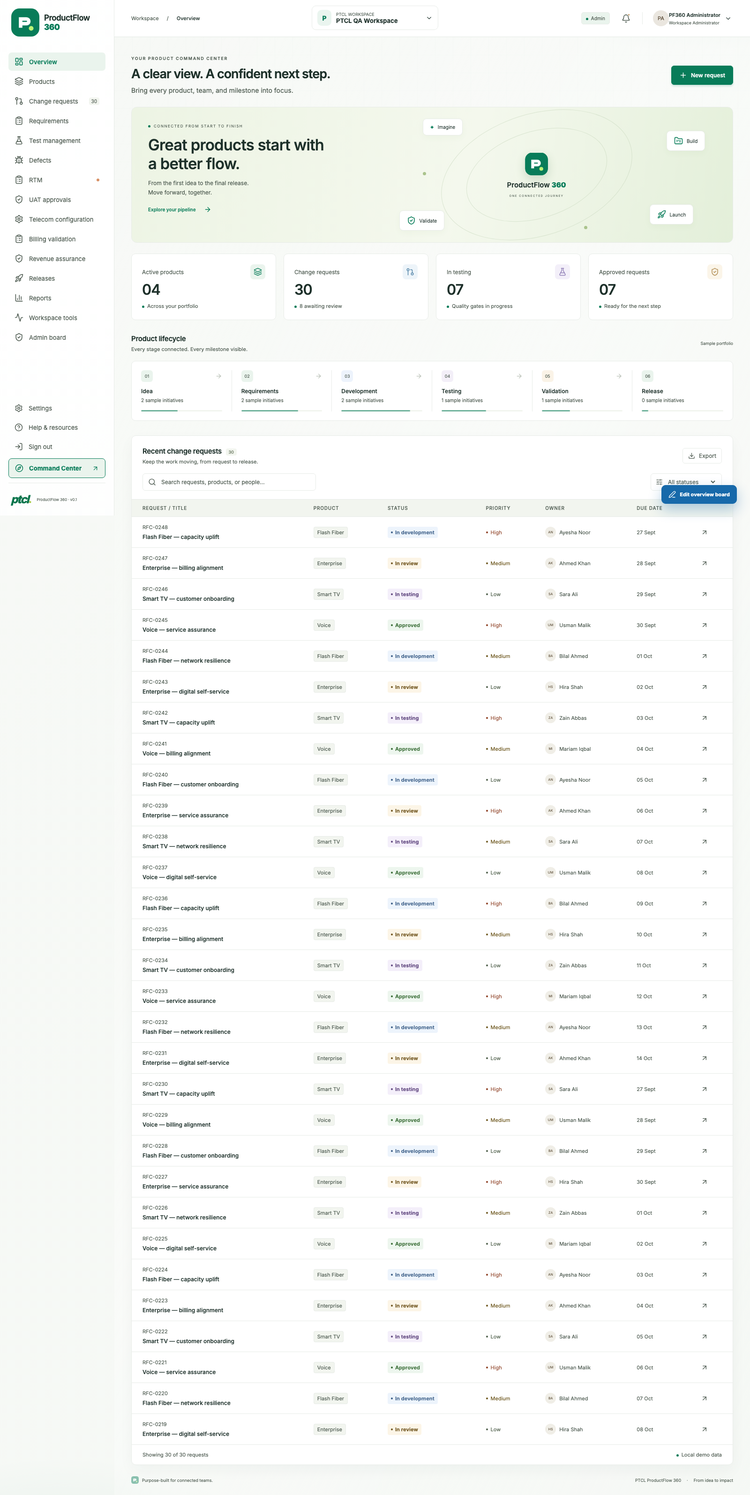
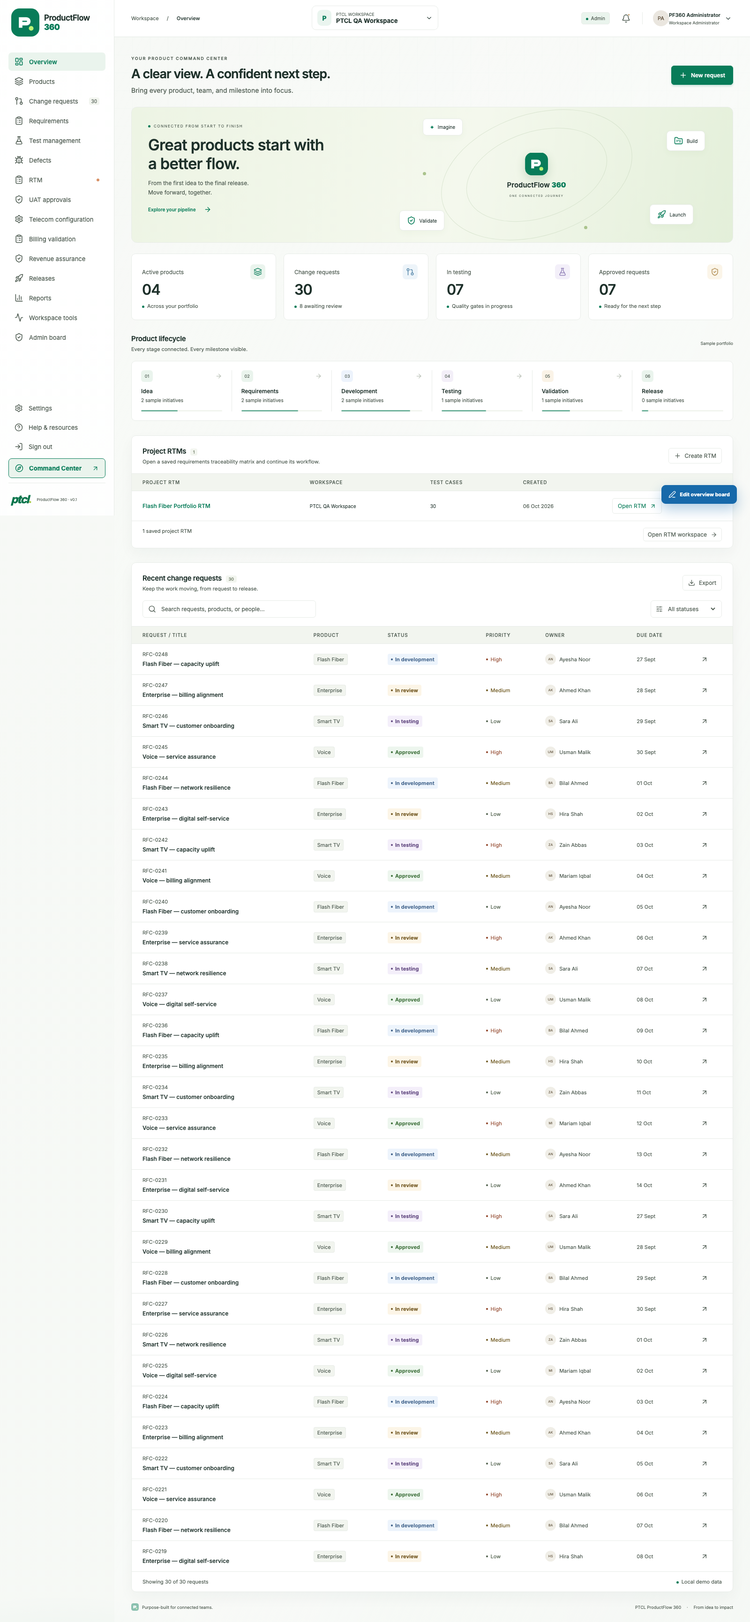
Show saved RTMs on the overview dashboard

diff --git a/apps/web/app/page.tsx b/apps/web/app/page.tsx
@@ -17,6 +17,7 @@ import { LIFECYCLE_KEY } from '../lib/lifecycle';
 import { TEST_STORAGE_KEY } from '../lib/test-cases';
 import { LayoutDashboard, Layers, GitPullRequest, ClipboardList, FlaskConical, Bug, ShieldCheck, Rocket, BarChart3, Settings, CircleHelp, Search, Bell, ChevronDown, ArrowUpRight, ArrowRight, Plus, X, SlidersHorizontal, Download, Check, Activity, Menu, FolderKanban, LogIn } from 'lucide-react';
 type Request={id:string;title:string;product:string;status:string;priority:string;owner:string;date:string};
+type RtmSummary={id:string;name:string;createdAt:string;workspaceName?:string;rows:unknown[]};
 const initial:Request[]=[
 {id:'RFC-0248',title:'Flash Fiber — 100 Mbps speed upgrade',product:'Flash Fiber',status:'In development',priority:'High',owner:'Ahmed Khan',date:'2026-09-22'},
 {id:'RFC-0247',title:'Unified billing for enterprise customers',product:'Enterprise',status:'In review',priority:'High',owner:'Sara Ali',date:'2026-09-20'},
@@ -36,10 +37,11 @@ return <div className="header-workspace"><button className="header-workspace-tri
 function Workspace({user,signOut,refreshAuth,updateProfile}:{user:AuthUser;signOut:()=>void;refreshAuth:()=>void;updateProfile:(changes:Pick<AuthUser,'fullName'|'designation'|'department'|'email'|'mobile'|'photo'>)=>void}){
 const {theme,selectTheme,themeError}=useTheme();
 const [testRequest,setTestRequest]=useState('');
+const [rtmToOpen,setRtmToOpen]=useState(''),[rtmDocuments,setRtmDocuments]=useState<RtmSummary[]>([]);
 const [ready,setReady]=useState(false),[records,setRecords]=useState<Request[]>(initial),[active,setActive]=useState('Overview'),[query,setQuery]=useState(''),[status,setStatus]=useState('All statuses'),[modal,setModal]=useState(false),[detail,setDetail]=useState<Request|null>(null),[editingRequest,setEditingRequest]=useState(false),[notice,setNotice]=useState(''),[mobile,setMobile]=useState(false),[storageError,setStorageError]=useState(false),[workspaces,setWorkspaces]=useState<HeaderWorkspace[]>([]),[activeWorkspace,setActiveWorkspace]=useState('');
 const allowedNav=user.role === 'Admin' ? [...nav,{name:'Admin board',icon:ShieldCheck}] : nav;
 const showNewRequest=active==='Overview'||active==='Change requests';
-useEffect(()=>{try{const saved=localStorage.getItem('pf360-requests');if(!saved&&!localStorage.getItem(DEMO_SEED_KEY)&&![LIFECYCLE_KEY,TEST_STORAGE_KEY,'pf360-rtm-documents','pf360-projects'].some(key=>localStorage.getItem(key))){const seed=createDemoSeed();localStorage.setItem('pf360-requests',JSON.stringify(seed.requests));localStorage.setItem(LIFECYCLE_KEY,JSON.stringify(seed.lifecycle));localStorage.setItem(TEST_STORAGE_KEY,JSON.stringify(seed.tests));localStorage.setItem('pf360-rtm-documents',JSON.stringify(seed.rtm));localStorage.setItem('pf360-projects',JSON.stringify(seed.projects));localStorage.setItem('pf360-workspaces',JSON.stringify([{id:'ptcl-qa',name:'PTCL QA Workspace',description:'Default local workspace',owner:'PTCL Product Office',createdAt:new Date().toISOString()}]));localStorage.setItem('pf360-active-workspace','ptcl-qa');localStorage.setItem(DEMO_SEED_KEY,'30-record-demo-v1');setRecords(seed.requests)}else if(saved){const parsed:unknown=JSON.parse(saved);if(Array.isArray(parsed)&&parsed.every(r=>r&&['id','title','product','status','priority','owner','date'].every(k=>typeof r[k]==='string')))setRecords(parsed)}const savedWorkspaces=localStorage.getItem('pf360-workspaces');const workspaceItems=savedWorkspaces?JSON.parse(savedWorkspaces):[{id:'ptcl-qa',name:'PTCL QA Workspace',description:'Default local workspace'}];if(Array.isArray(workspaceItems)){setWorkspaces(workspaceItems);const stored=localStorage.getItem('pf360-active-workspace');setActiveWorkspace(workspaceItems.some(item=>item.id===stored)?stored:workspaceItems[0]?.id??'')}}catch{setStorageError(true)}finally{setReady(true)}},[]);
+useEffect(()=>{try{const saved=localStorage.getItem('pf360-requests');if(!saved&&!localStorage.getItem(DEMO_SEED_KEY)&&![LIFECYCLE_KEY,TEST_STORAGE_KEY,'pf360-rtm-documents','pf360-projects'].some(key=>localStorage.getItem(key))){const seed=createDemoSeed();localStorage.setItem('pf360-requests',JSON.stringify(seed.requests));localStorage.setItem(LIFECYCLE_KEY,JSON.stringify(seed.lifecycle));localStorage.setItem(TEST_STORAGE_KEY,JSON.stringify(seed.tests));localStorage.setItem('pf360-rtm-documents',JSON.stringify(seed.rtm));localStorage.setItem('pf360-projects',JSON.stringify(seed.projects));localStorage.setItem('pf360-workspaces',JSON.stringify([{id:'ptcl-qa',name:'PTCL QA Workspace',description:'Default local workspace',owner:'PTCL Product Office',createdAt:new Date().toISOString()}]));localStorage.setItem('pf360-active-workspace','ptcl-qa');localStorage.setItem(DEMO_SEED_KEY,'30-record-demo-v1');setRecords(seed.requests)}else if(saved){const parsed:unknown=JSON.parse(saved);if(Array.isArray(parsed)&&parsed.every(r=>r&&['id','title','product','status','priority','owner','date'].every(k=>typeof r[k]==='string')))setRecords(parsed)}const savedRtms=JSON.parse(localStorage.getItem('pf360-rtm-documents')??'[]');if(Array.isArray(savedRtms))setRtmDocuments(savedRtms.filter(item=>item&&typeof item.id==='string'&&typeof item.name==='string'&&Array.isArray(item.rows)));const savedWorkspaces=localStorage.getItem('pf360-workspaces');const workspaceItems=savedWorkspaces?JSON.parse(savedWorkspaces):[{id:'ptcl-qa',name:'PTCL QA Workspace',description:'Default local workspace'}];if(Array.isArray(workspaceItems)){setWorkspaces(workspaceItems);const stored=localStorage.getItem('pf360-active-workspace');setActiveWorkspace(workspaceItems.some(item=>item.id===stored)?stored:workspaceItems[0]?.id??'')}}catch{setStorageError(true)}finally{setReady(true)}},[]);
 useEffect(()=>{if(notice){const t=setTimeout(()=>setNotice(''),4500);return()=>clearTimeout(t)}},[notice]);
 useEffect(()=>{const openWorkspaceTools=()=>setActive('Workspace tools');window.addEventListener('pf360-open-workspace-tools',openWorkspaceTools);return()=>window.removeEventListener('pf360-open-workspace-tools',openWorkspaceTools)},[]);
 useEffect(()=>{const openWorkspace=()=>{setActive('Overview');setMobile(false);setNotice('Selected workspace opened.');};window.addEventListener('pf360-workspace-opened',openWorkspace);return()=>window.removeEventListener('pf360-workspace-opened',openWorkspace)},[]);
@@ -47,6 +49,7 @@ useEffect(()=>{const openGuide=()=>{setActive('Help & resources');setMobile(fals
 useEffect(()=>{const navigate=(event:Event)=>{setActive((event as CustomEvent<string>).detail);setMobile(false)};window.addEventListener('pf360-command-navigate',navigate);return()=>window.removeEventListener('pf360-command-navigate',navigate)},[]);
 useEffect(()=>{window.dispatchEvent(new CustomEvent('pf360-active-module',{detail:active}))},[active]);
 useEffect(()=>{const sync=()=>{try{const saved=localStorage.getItem('pf360-requests');const next=saved?JSON.parse(saved):[];if(Array.isArray(next))setRecords(next)}catch{setStorageError(true)}};window.addEventListener('pf360-requests-changed',sync);return()=>window.removeEventListener('pf360-requests-changed',sync)},[]);
+useEffect(()=>{const sync=()=>{try{const next=JSON.parse(localStorage.getItem('pf360-rtm-documents')??'[]');if(Array.isArray(next))setRtmDocuments(next.filter(item=>item&&typeof item.id==='string'&&typeof item.name==='string'&&Array.isArray(item.rows)))}catch{setStorageError(true)}};window.addEventListener('pf360-rtm-changed',sync);return()=>window.removeEventListener('pf360-rtm-changed',sync)},[]);
 function save(next:Request[]){try{localStorage.setItem('pf360-requests',JSON.stringify(next));setRecords(next);setStorageError(false);return true}catch{setStorageError(true);return false}}
 const filtered=records.filter(r=>(status==='All statuses'||r.status===status)&&`${r.id} ${r.title} ${r.product} ${r.owner}`.toLowerCase().includes(query.toLowerCase()));
 function create(e:React.FormEvent<HTMLFormElement>){e.preventDefault();const f=new FormData(e.currentTarget);const title=String(f.get('title')).trim();if(!title)return;const request:Request={id:`RFC-${crypto.randomUUID().slice(0,8).toUpperCase()}`,title,product:String(f.get('product')),status:'In review',priority:String(f.get('priority')),owner:String(f.get('owner')).trim(),date:String(f.get('date'))};if(save([request,...records])){setModal(false);setDetail(request);setNotice('Request created. You can now attach RFC documents.')}else{setNotice('Request could not be saved. Browser storage is full or unavailable.')}}
@@ -58,8 +61,8 @@ return <><div className={`splash ${ready?'loaded':''}`} role="status"><img src="
 <main>{showNewRequest&&<div className="page-heading"><div><div className="eyebrow">YOUR PRODUCT COMMAND CENTER</div><h1>{active==='Overview'?'A clear view. A confident next step.':'Change requests'}</h1><p>{active==='Overview'?'Bring every product, team, and milestone into focus.':'Create, review and track delivery requests.'}</p></div><button className="primary" onClick={()=>setModal(true)}><Plus size={17}/>New request</button></div>}{storageError&&<div className="warning">Browser storage is full or unavailable. The latest changes could not be saved.</div>}
 {active==='Overview'&&<><section className="hero"><div className="hero-copy"><div className="hero-tag"><span/>CONNECTED FROM START TO FINISH</div><h2>Great products start with<br/>a better flow.</h2><p>From the first idea to the final release.<br/>Move forward, together.</p><button onClick={()=>setActive('Change requests')}>Explore your pipeline <ArrowRight size={16}/></button></div><div className="flow-art" aria-hidden="true"><div className="orbit one"/><div className="orbit two"/><div className="flow-center"><img src="/logo.svg" alt=""/><span>ProductFlow <b>360</b></span><small>ONE CONNECTED JOURNEY</small></div><span className="flow-node node-idea"><span>✦</span> Imagine</span><span className="flow-node node-build"><FolderKanban size={19}/> Build</span><span className="flow-node node-test"><ShieldCheck size={19}/> Validate</span><span className="flow-node node-launch"><Rocket size={19}/> Launch</span><i className="orbit-dot d1"/><i className="orbit-dot d2"/></div></section>
 <section className="metrics">{[{label:'Active products',value:new Set(records.map(r=>r.product)).size,icon:Layers,note:'Across your portfolio',color:'green'},{label:'Change requests',value:records.length,icon:GitPullRequest,note:`${records.filter(r=>r.status==='In review').length} awaiting review`,color:'blue'},{label:'In testing',value:records.filter(r=>r.status==='In testing').length,icon:FlaskConical,note:'Quality gates in progress',color:'purple'},{label:'Approved requests',value:records.filter(r=>r.status==='Approved').length,icon:ShieldCheck,note:'Ready for the next step',color:'orange'}].map(m=><article className="metric" key={m.label}><div><span>{m.label}</span><span className={`metric-icon ${m.color}`}><m.icon size={18}/></span></div><strong>{String(m.value).padStart(2,'0')}</strong><small><span className="tiny-dot"/>{m.note}</small></article>)}</section>
-<div className="section-title"><div><h2>Product lifecycle</h2><p>Every stage connected. Every milestone visible.</p></div><span className="subtle">Sample portfolio</span></div><section className="lifecycle">{stages.map((s,i)=><div className="stage" key={s}><div><span className={`stage-number stage-${i}`}>{String(i+1).padStart(2,'0')}</span>{i<5&&<ArrowRight size={15}/>}</div><strong>{s}</strong><small>{[2,2,2,1,1,0][i]} sample initiatives</small><div className="stage-bar"><i style={{width:`${[45,70,85,55,35,8][i]}%`}}/></div></div>)}</section></>}
-{active==='Admin board'&&user.role==='Admin'?<AdminBoard currentUser={user} onChange={refreshAuth}/>: (active==='Overview'||active==='Change requests')?<section className="requests"><div className="section-title"><div><h2>{active==='Overview'?'Recent change requests':'All change requests'} <span className="count">{records.length}</span></h2><p>Keep the work moving, from request to release.</p></div><button className="text-button" onClick={exportCSV}><Download size={15}/>Export</button></div><div className="table-toolbar"><label className="search"><Search size={17}/><input aria-label="Search requests" placeholder="Search requests, products, or people…" value={query} onChange={e=>setQuery(e.target.value)}/></label><label className="filter"><SlidersHorizontal size={15}/><select aria-label="Filter by status" value={status} onChange={e=>setStatus(e.target.value)}>{['All statuses','In review','In development','In testing','Approved'].map(s=><option key={s}>{s}</option>)}</select></label></div><div className="table-scroll"><table><thead><tr><th>REQUEST / TITLE</th><th>PRODUCT</th><th>STATUS</th><th>PRIORITY</th><th>OWNER</th><th>DUE DATE</th><th/></tr></thead><tbody>{filtered.map(r=><tr key={r.id}><td><button className="request-title" onClick={()=>setDetail(r)}><small>{r.id}</small><strong>{r.title}</strong></button></td><td><span className="product-tag">{r.product}</span></td><td><span className={`status ${r.status.toLowerCase().replaceAll(' ','-')}`}><i/>{r.status}</span></td><td><span className={`priority ${r.priority.toLowerCase()}`}><i/>{r.priority}</span></td><td><div className="owner"><span>{r.owner.split(' ').map(w=>w[0]).slice(0,2).join('')}</span>{r.owner}</div></td><td className="date">{new Date(r.date+'T12:00:00').toLocaleDateString('en-GB',{day:'2-digit',month:'short'})}</td><td><button className="icon-button" aria-label={`Open ${r.id}`} onClick={()=>setDetail(r)}><ArrowUpRight size={16}/></button></td></tr>)}</tbody></table>{!filtered.length&&<div className="empty">No requests match your search. Try a different keyword or status.</div>}</div><div className="table-footer"><span>Showing {filtered.length} of {records.length} requests</span><span><span className="tiny-dot"/>Local demo data</span></div></section>:active==='RTM'?<RtmWorkspace/>:active==='Test management'?<TestManagement requests={records} initialRequest={testRequest} onOpenRequest={id=>{const request=records.find(r=>r.id===id);if(request)setDetail(request)}}/>:active==='Workspace tools'?<WorkspaceTools requests={records} onNavigate={setActive}/>:active==='Reports'?<><><section className="requests"><div className="section-title"><div><h2>Reports</h2><p>Open the Playwright Allure report.</p></div></div><a className="primary" href="/reports/allure" target="_blank" rel="noreferrer">View Allure report ↗</a></section><ExcelReports requests={records}/></></>:workflowModules[active]?<LifecycleBoard key={active} kind={workflowModules[active]} requests={records} onOpenRequest={id=>{const request=records.find(r=>r.id===id);if(request)setDetail(request)}}/>:active==='Settings'?<ThemeSettings theme={theme} onChange={selectTheme} error={themeError}/>:active==='Products'?<section className="product-grid">{Array.from(new Set(records.map(r=>r.product))).map(p=><button className="product-card" key={p} onClick={()=>{setActive('Change requests');setQuery(p)}}><span className="metric-icon green"><Layers size={22}/></span><h2>{p}</h2><p>{records.filter(r=>r.product===p).length} change requests</p><span className="text-button">View requests <ArrowRight size={16}/></span></button>)}</section>:<section className="planned"><span className="metric-icon green"><Activity size={24}/></span><h2>{active==='Help & resources'?'Your workspace guide':`${active} · planned phase`}</h2><p>{active==='Help & resources'?'Create an RFC, then attach PDF or Word documents up to 50 MB each in its details. Use Test management to define and run linked SIT, QA and UAT test cases. Change your workspace theme in Settings. Requests, documents and test results are saved in this browser.':`The ${active.toLowerCase()} module is included in the implementation roadmap. This foundation release includes the dashboard, product portfolio, and local change request workflow.`}</p><button className="primary" onClick={()=>setActive('Change requests')}>Open change requests <ArrowRight size={16}/></button></section>}
+<div className="section-title"><div><h2>Product lifecycle</h2><p>Every stage connected. Every milestone visible.</p></div><span className="subtle">Sample portfolio</span></div><section className="lifecycle">{stages.map((s,i)=><div className="stage" key={s}><div><span className={`stage-number stage-${i}`}>{String(i+1).padStart(2,'0')}</span>{i<5&&<ArrowRight size={15}/>}</div><strong>{s}</strong><small>{[2,2,2,1,1,0][i]} sample initiatives</small><div className="stage-bar"><i style={{width:`${[45,70,85,55,35,8][i]}%`}}/></div></div>)}</section><section className="requests rtm-dashboard"><div className="section-title"><div><h2>Project RTMs <span className="count">{rtmDocuments.length}</span></h2><p>Open a saved requirements traceability matrix and continue its workflow.</p></div><button className="text-button" onClick={()=>{setRtmToOpen('');setActive('RTM')}}><Plus size={15}/>Create RTM</button></div><div className="table-scroll"><table><thead><tr><th>PROJECT RTM</th><th>WORKSPACE</th><th>TEST CASES</th><th>CREATED</th><th/></tr></thead><tbody>{rtmDocuments.map(doc=><tr key={doc.id}><td><button className="request-title" onClick={()=>{setRtmToOpen(doc.id);setActive('RTM')}}><strong>{doc.name}</strong></button></td><td>{doc.workspaceName??'Unlinked workspace'}</td><td>{doc.rows.length}</td><td className="date">{new Date(doc.createdAt).toLocaleDateString('en-GB',{day:'2-digit',month:'short',year:'numeric'})}</td><td><button className="text-button rtm-open-button" onClick={()=>{setRtmToOpen(doc.id);setActive('RTM')}}>Open RTM <ArrowUpRight size={14}/></button></td></tr>)}</tbody></table>{!rtmDocuments.length&&<div className="empty">No project RTMs yet. Create one to map requirements and test coverage.</div>}</div><div className="table-footer"><span>{rtmDocuments.length} saved project RTM{rtmDocuments.length===1?'':'s'}</span><button className="text-button" onClick={()=>setActive('RTM')}>Open RTM workspace <ArrowRight size={14}/></button></div></section></>}
+{active==='Admin board'&&user.role==='Admin'?<AdminBoard currentUser={user} onChange={refreshAuth}/>: (active==='Overview'||active==='Change requests')?<section className="requests"><div className="section-title"><div><h2>{active==='Overview'?'Recent change requests':'All change requests'} <span className="count">{records.length}</span></h2><p>Keep the work moving, from request to release.</p></div><button className="text-button" onClick={exportCSV}><Download size={15}/>Export</button></div><div className="table-toolbar"><label className="search"><Search size={17}/><input aria-label="Search requests" placeholder="Search requests, products, or people…" value={query} onChange={e=>setQuery(e.target.value)}/></label><label className="filter"><SlidersHorizontal size={15}/><select aria-label="Filter by status" value={status} onChange={e=>setStatus(e.target.value)}>{['All statuses','In review','In development','In testing','Approved'].map(s=><option key={s}>{s}</option>)}</select></label></div><div className="table-scroll"><table><thead><tr><th>REQUEST / TITLE</th><th>PRODUCT</th><th>STATUS</th><th>PRIORITY</th><th>OWNER</th><th>DUE DATE</th><th/></tr></thead><tbody>{filtered.map(r=><tr key={r.id}><td><button className="request-title" onClick={()=>setDetail(r)}><small>{r.id}</small><strong>{r.title}</strong></button></td><td><span className="product-tag">{r.product}</span></td><td><span className={`status ${r.status.toLowerCase().replaceAll(' ','-')}`}><i/>{r.status}</span></td><td><span className={`priority ${r.priority.toLowerCase()}`}><i/>{r.priority}</span></td><td><div className="owner"><span>{r.owner.split(' ').map(w=>w[0]).slice(0,2).join('')}</span>{r.owner}</div></td><td className="date">{new Date(r.date+'T12:00:00').toLocaleDateString('en-GB',{day:'2-digit',month:'short'})}</td><td><button className="icon-button" aria-label={`Open ${r.id}`} onClick={()=>setDetail(r)}><ArrowUpRight size={16}/></button></td></tr>)}</tbody></table>{!filtered.length&&<div className="empty">No requests match your search. Try a different keyword or status.</div>}</div><div className="table-footer"><span>Showing {filtered.length} of {records.length} requests</span><span><span className="tiny-dot"/>Local demo data</span></div></section>:active==='RTM'?<RtmWorkspace openRtmId={rtmToOpen}/>:active==='Test management'?<TestManagement requests={records} initialRequest={testRequest} onOpenRequest={id=>{const request=records.find(r=>r.id===id);if(request)setDetail(request)}}/>:active==='Workspace tools'?<WorkspaceTools requests={records} onNavigate={setActive}/>:active==='Reports'?<><><section className="requests"><div className="section-title"><div><h2>Reports</h2><p>Open the Playwright Allure report.</p></div></div><a className="primary" href="/reports/allure" target="_blank" rel="noreferrer">View Allure report ↗</a></section><ExcelReports requests={records}/></></>:workflowModules[active]?<LifecycleBoard key={active} kind={workflowModules[active]} requests={records} onOpenRequest={id=>{const request=records.find(r=>r.id===id);if(request)setDetail(request)}}/>:active==='Settings'?<ThemeSettings theme={theme} onChange={selectTheme} error={themeError}/>:active==='Products'?<section className="product-grid">{Array.from(new Set(records.map(r=>r.product))).map(p=><button className="product-card" key={p} onClick={()=>{setActive('Change requests');setQuery(p)}}><span className="metric-icon green"><Layers size={22}/></span><h2>{p}</h2><p>{records.filter(r=>r.product===p).length} change requests</p><span className="text-button">View requests <ArrowRight size={16}/></span></button>)}</section>:<section className="planned"><span className="metric-icon green"><Activity size={24}/></span><h2>{active==='Help & resources'?'Your workspace guide':`${active} · planned phase`}</h2><p>{active==='Help & resources'?'Create an RFC, then attach PDF or Word documents up to 50 MB each in its details. Use Test management to define and run linked SIT, QA and UAT test cases. Change your workspace theme in Settings. Requests, documents and test results are saved in this browser.':`The ${active.toLowerCase()} module is included in the implementation roadmap. This foundation release includes the dashboard, product portfolio, and local change request workflow.`}</p><button className="primary" onClick={()=>setActive('Change requests')}>Open change requests <ArrowRight size={16}/></button></section>}
 <footer><span><img src="/logo.svg" alt=""/>Purpose-built for connected teams.</span><span>PTCL ProductFlow 360 <span className="footer-dot">·</span> From idea to impact</span></footer></main></div></div>
 {notice&&<div className="toast" role="status"><Check size={18}/>{notice}</div>}
 {(modal||detail)&&<div className="modal-overlay" onClick={()=>{setModal(false);setDetail(null)}}><section className="modal" role="dialog" aria-modal="true" aria-label={detail?'Request details':'New change request'} onClick={e=>e.stopPropagation()} onKeyDown={e=>{if(e.key==='Escape'){setModal(false);setDetail(null)}if(e.key==='Tab'){const nodes=e.currentTarget.querySelectorAll<HTMLElement>('button:not(:disabled),input:not(:disabled):not([tabindex="-1"]),select:not(:disabled),textarea:not(:disabled)');const first=nodes[0],last=nodes[nodes.length-1];if(e.shiftKey&&document.activeElement===first){e.preventDefault();last?.focus()}else if(!e.shiftKey&&document.activeElement===last){e.preventDefault();first?.focus()}}}}><button className="modal-close icon-button" aria-label="Close dialog" onClick={()=>{setModal(false);setDetail(null)}}><X size={20}/></button>{detail?<><div className="eyebrow">{detail.id}</div><h2>{detail.title}</h2><p>{detail.product} · Owned by {detail.owner}</p><dl><dt>Priority</dt><dd>{detail.priority}</dd><dt>Due date</dt><dd>{detail.date}</dd></dl><label>Lifecycle status<select autoFocus value={detail.status} onChange={e=>{const updated={...detail,status:e.target.value};if(save(records.map(r=>r.id===updated.id?updated:r))){setDetail(updated);setNotice('Request status updated')}else{setNotice('Status could not be saved. Browser storage is unavailable.')}}}>{['In review','In development','In testing','Approved'].map(s=><option key={s}>{s}</option>)}</select></label><p className="form-note">Updates are saved to this browser’s demo workspace.</p><RfcDocuments key={detail.id} requestId={detail.id}/><button className="primary" onClick={()=>{setTestRequest(detail.id);setDetail(null);setActive('Test management')}}><FlaskConical size={16}/>Manage linked test cases</button></>:<><div className="eyebrow">LET’S MOVE SOMETHING FORWARD</div><h2>New change request</h2><p>Start with the essentials. Build the details together.</p><form onSubmit={create}><label>Request title<input name="title" autoFocus required maxLength={160} placeholder="e.g. Flash Fiber speed upgrade"/></label><div className="form-row"><label>Product<select name="product">{['Flash Fiber','Enterprise','Smart TV','Voice'].map(p=><option key={p}>{p}</option>)}</select></label><label>Priority<select name="priority"><option>Medium</option><option>High</option><option>Low</option></select></label></div><label>Owner<input name="owner" required maxLength={80} placeholder="Full name" pattern=".*\S.*"/></label><label>Due date<input name="date" type="date" required/></label><p className="form-note">New requests begin in review. After creating the request, attach PDF or Word documents up to 50 MB per file.</p><button className="primary" type="submit"><Plus size={17}/>Create request</button></form></>}</section></div>}</>}

diff --git a/apps/web/components/rtm-workspace.tsx b/apps/web/components/rtm-workspace.tsx
@@ -18,10 +18,11 @@ const empty=():Row=>({id:crypto.randomUUID(),rfc:'',requirement:'',module:'',cha
 function load():Rtm[]{try{const items=JSON.parse(localStorage.getItem(key)??'[]');return Array.isArray(items)?items.map(item=>({...item,customFields:Array.isArray(item.customFields)?item.customFields:[],rows:Array.isArray(item.rows)?item.rows.map((row:Row)=>({...empty(),...row,evidence:row.evidence||'Not attached',custom:row.custom??{}})):[]})):[]}catch{return[]}}
 function workspace(){try{const id=localStorage.getItem('pf360-active-workspace')??'';const spaces=JSON.parse(localStorage.getItem('pf360-workspaces')??'[]') as {id:string;name:string}[];const selected=spaces.find(space=>space.id===id);return selected?{workspaceId:selected.id,workspaceName:selected.name}:{}}catch{return{}}}
 
-export function RtmWorkspace(){
+export function RtmWorkspace({openRtmId=''}:{openRtmId?:string}){
  const [documents,setDocuments]=useState<Rtm[]>(load),[selectedId,setSelectedId]=useState(''),[creating,setCreating]=useState(false),[name,setName]=useState(''),[size,setSize]=useState('100'),[query,setQuery]=useState(''),[field,setField]=useState(''),[notice,setNotice]=useState(''),[evidenceRow,setEvidenceRow]=useState<Row|null>(null),[pendingDelete,setPendingDelete]=useState<Row|null>(null);const input=useRef<HTMLInputElement>(null);const selected=documents.find(doc=>doc.id===selectedId);
+ useEffect(()=>{if(openRtmId&&documents.some(document=>document.id===openRtmId)){setSelectedId(openRtmId);setCreating(false);setEvidenceRow(null)}},[openRtmId,documents]);
  useEffect(()=>{const sync=(event:Event)=>{const detail=(event as CustomEvent<{requestId?:string;count?:number}>).detail;if(!detail?.requestId?.startsWith('rtm:'))return;const [,documentId,rowId]=detail.requestId.split(':');if(!documentId||!rowId)return;setDocuments(previous=>{const next=previous.map(document=>document.id!==documentId?document:{...document,rows:document.rows.map(row=>row.id===rowId?{...row,evidence:detail.count?`Attached (${detail.count})`:'Not attached'}:row)});localStorage.setItem(key,JSON.stringify(next));return next});setNotice(detail.count?`Evidence attached (${detail.count} file${detail.count===1?'':'s'}).`:'Evidence removed.');};window.addEventListener('pf360-evidence-changed',sync);return()=>window.removeEventListener('pf360-evidence-changed',sync)},[]);
- const save=(next:Rtm[],message:string)=>{localStorage.setItem(key,JSON.stringify(next));setDocuments(next);setNotice(message)};
+ const save=(next:Rtm[],message:string)=>{localStorage.setItem(key,JSON.stringify(next));setDocuments(next);window.dispatchEvent(new Event('pf360-rtm-changed'));setNotice(message)};
  const replace=(next:Rtm,message:string)=>save(documents.map(doc=>doc.id===next.id?next:doc),message);
  function create(){if(!name.trim()){setNotice('Enter a project / RTM name.');return}const doc:Rtm={id:crypto.randomUUID(),name:name.trim(),createdAt:new Date().toISOString(),...workspace(),rows:Array.from({length:Number(size)},empty),customFields:[]};save([doc,...documents],`${size}-case editable RTM created.`);setSelectedId(doc.id);setCreating(false);setName('')}
  function update(id:string,column:keyof Omit<Row,'id'|'custom'>,value:string){if(selected)replace({...selected,rows:selected.rows.map(row=>row.id===id?{...row,[column]:value}:row)},'RTM changes saved.')}

diff --git a/apps/web/app/rtm-dashboard.css b/apps/web/app/rtm-dashboard.css
@@ -1,0 +1,5 @@
+.rtm-dashboard{margin:0 0 30px}
+.rtm-dashboard .request-title{color:var(--green);font-weight:600}
+.rtm-dashboard .request-title:hover{text-decoration:underline}
+.rtm-dashboard .rtm-open-button{min-width:104px;color:var(--green);white-space:nowrap}
+.rtm-dashboard .table-footer .text-button{padding:6px 9px}

diff --git a/apps/web/app/layout.tsx b/apps/web/app/layout.tsx
@@ -1,6 +1,7 @@
 import type { Metadata } from 'next';
 import '@fontsource-variable/inter';
 import './globals.css';
+import './rtm-dashboard.css';
 import './features.css';
 import './loading-failsafe.css';
 import './header-fixed.css';

diff --git a/README.md b/README.md
@@ -42,7 +42,7 @@ The links between records let a delivery team follow a request from its owner an
 
 | Screen | Main work |
 | --- | --- |
-| Command Center | Portfolio overview, request pipeline, metrics, alerts, and next actions. |
+| Command Center | Portfolio overview, request pipeline, metrics, alerts, and saved project RTMs with a direct open action. |
 | Workspaces and products | Select a workspace, register projects, and browse the product portfolio. |
 | Change requests | Create and manage RFCs with status, owner, priority, documents, and linked delivery work. |
 | Requirements and RTM | Capture requirements, create or import matrices, and connect requirements to test coverage. |
@@ -52,7 +52,7 @@ The links between records let a delivery team follow a request from its owner an
 
 ### Screen-by-screen screenshots
 
-The screenshots below were freshly captured from a clean Chromium browser on 6 October 2026. A first-time browser gets a realistic demo portfolio with 30 change requests, 30 records in each lifecycle board, 30 test cases, a 30-row RTM, and 30 delivery projects. Existing browser data is preserved. The gallery includes every workspace screen plus login, signup, and password recovery.
+The screenshots below were freshly captured from a clean Chromium browser on 6 October 2026. The Command Center lists saved RTMs with their workspace and case count; **Open RTM** selects that matrix in the existing editor so its rows and evidence flow continue there. A first-time browser gets a realistic demo portfolio with 30 change requests, 30 records in each lifecycle board, 30 test cases, a 30-row RTM, and 30 delivery projects. Existing browser data is preserved. The gallery includes every workspace screen plus login, signup, and password recovery.
 
 | Login | Sign up | Password recovery | Command Center |
 | --- | --- | --- | --- |
